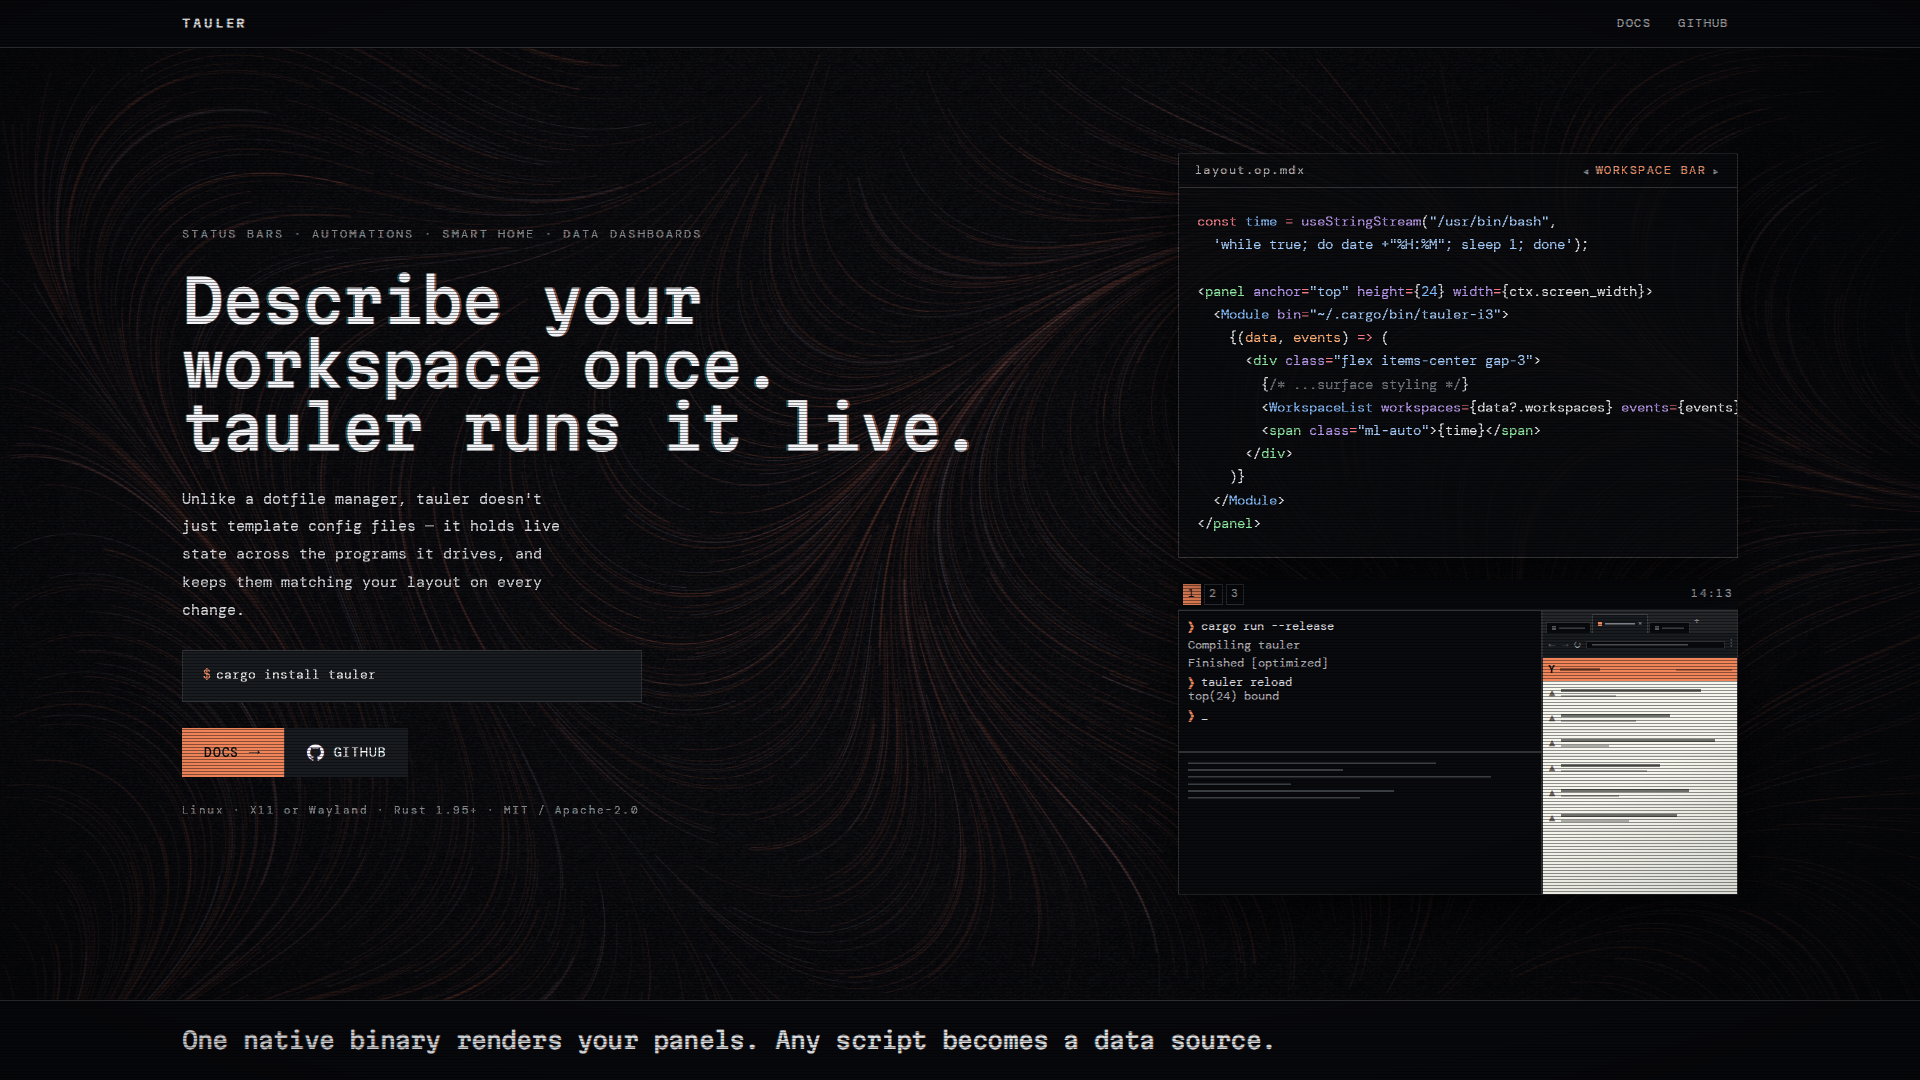
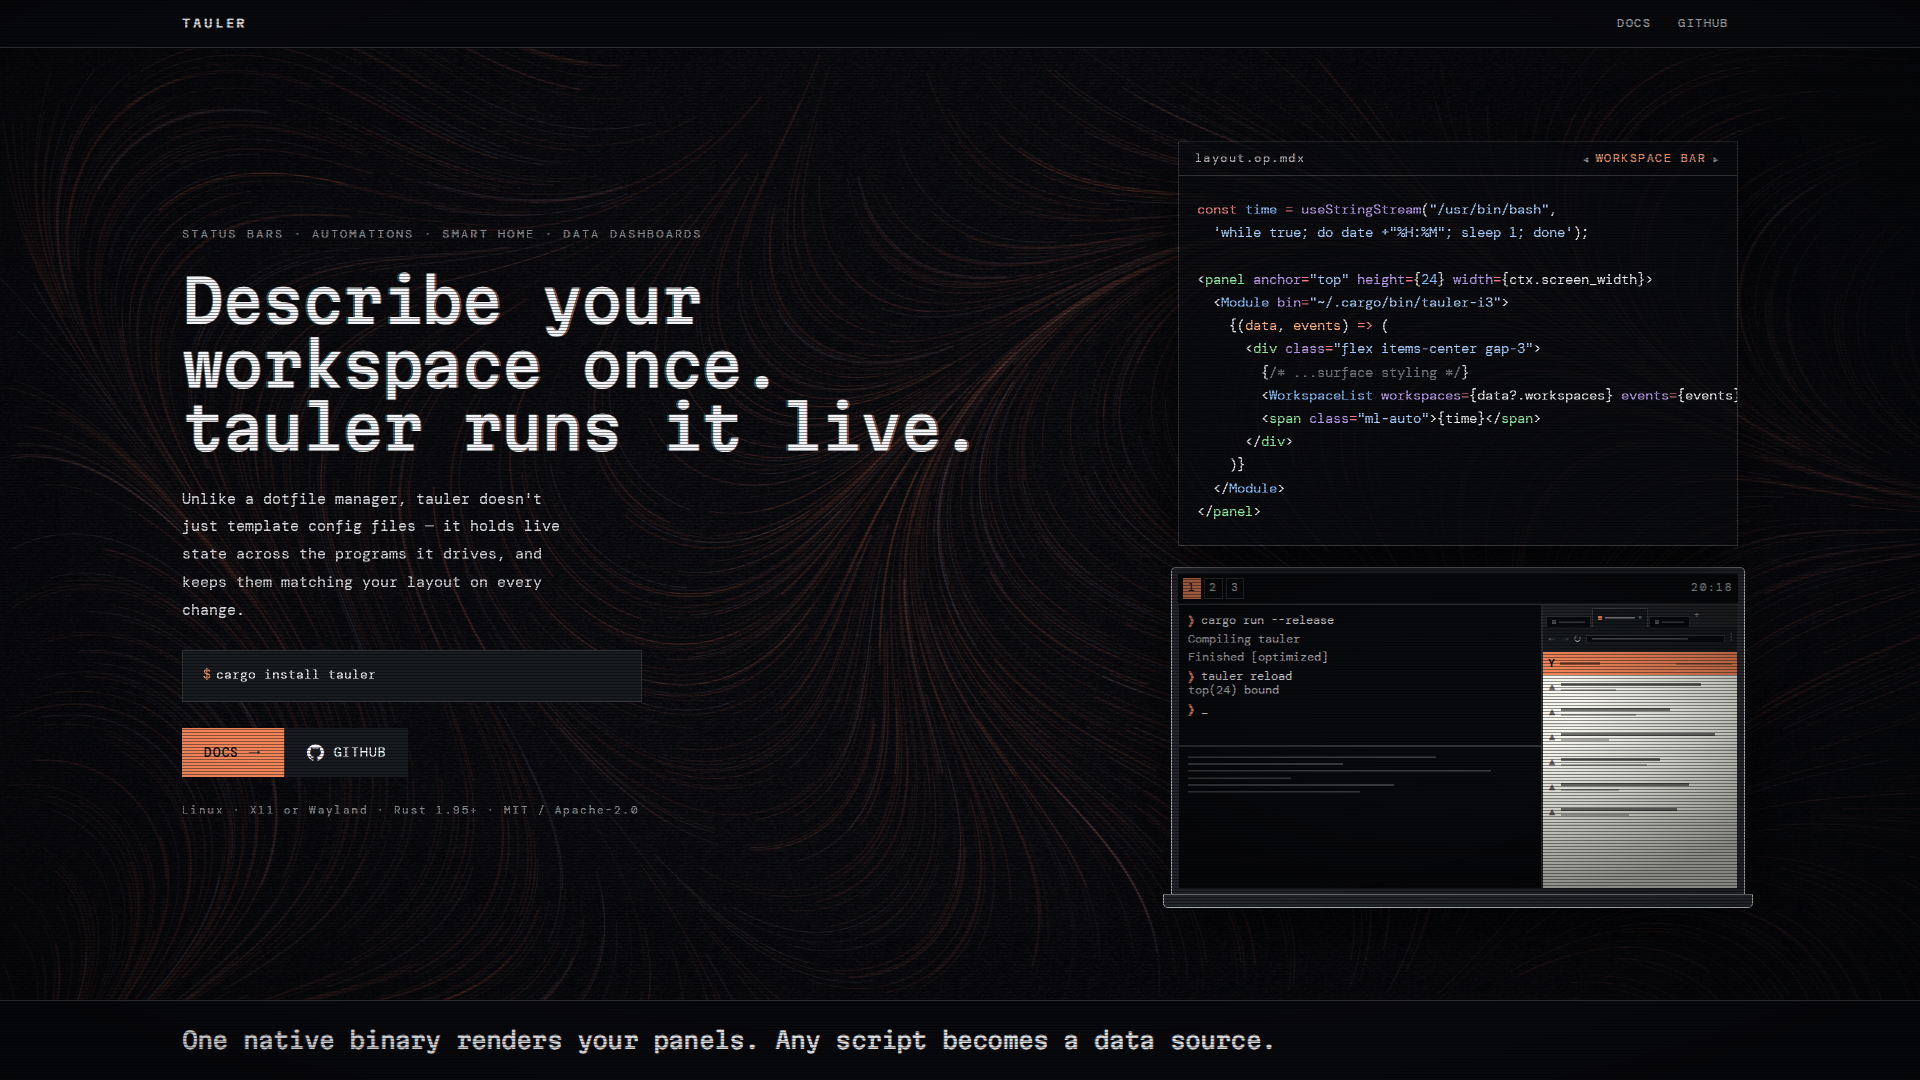
feat: add fake laptop to landing screen (#475)

diff --git a/docs/src/styles/global.css b/docs/src/styles/global.css
@@ -69,6 +69,10 @@
   /* Panel lift — a surface sitting over the wallpaper, not a card. */
   --shadow-panel: 0 20px 55px oklch(0.03 0.01 265 / 0.75);
 
+  /* The one radius on the site — see ADR 0030's amendment. Only reachable
+     via [data-physical-object]; every other surface stays radius-0. */
+  --radius-device: 4px;
+
   /* Accent-1 (flow field). The other four workspace accents return with
      the full scroll-story page; accent-2 arrived early for the docs'
      second sidebar group (ADR-pending: see the docs revamp handoff §6).
@@ -136,6 +140,22 @@
 @layer design {
   * {
     border-radius: 0;
+  }
+
+  /* Named, narrow exception — see ADR 0030's amendment. An attribute
+     selector (0,0,1,0) beats the universal selector above (0,0,0,0) by
+     ordinary specificity within this same layer, no !important needed.
+     Reserved for hardware mockups standing in for a real object, not UI
+     chrome — reach for this only when that's genuinely what the element is.
+     "lid" and "base" round asymmetrically, the way a real laptop does: the
+     lid rounds only its top corners (away from the hinge), the base rounds
+     only its bottom corners (the front edge resting on the desk) — the
+     hinge line where the two meet stays flush (radius 0) on both sides. */
+  [data-physical-object='lid'] {
+    border-radius: var(--radius-device) var(--radius-device) 0 0;
+  }
+  [data-physical-object='base'] {
+    border-radius: 0 0 var(--radius-device) var(--radius-device);
   }
 
   /* Landing-page ground; Starlight's own layers repaint it for docs pages. */

diff --git a/docs/adr/0030-site-styling-is-layered-and-machine-checked.md b/docs/adr/0030-site-styling-is-layered-and-machine-checked.md
@@ -20,3 +20,47 @@ Prettier (with the Astro and Tailwind plugins) for formatting: it is the only
 formatter that handles `.astro` templates maturely, and its class sorter
 reads the real `@theme`. Revisit Biome when it formats Astro templates
 stably and `useSortedClasses` understands theme-defined utilities.
+
+## Amendment: `[data-physical-object]` may round its own corners
+
+Radius-0 is still the default for everything — panels, buttons, code
+blocks, all UI chrome. The one exception is an element carrying
+`data-physical-object`: a hardware mockup (currently just
+`DeviceMockup.astro`'s laptop frame) standing in for a real object on a
+desk, not another piece of interface. Every other panel on the landing page
+(`CodePanel`, `ScreenMock`) is also sharp-cornered, which is exactly the
+problem — a sharp-cornered device mockup reads as *more panel chrome*, not
+as a distinct physical thing sitting in front of the screen it wraps.
+Rounding is the signal that tells them apart; it's semantic, not decorative.
+
+The mechanism is two rules in the same `design` layer, declared after
+`* { border-radius: 0; }`, keyed by an explicit `data-physical-object` value
+rather than its bare presence — a real laptop doesn't round symmetrically,
+so neither does this: the lid rounds only its top corners (away from the
+hinge), the base rounds only its bottom corners (the front edge resting on
+the desk), and the hinge line where the two meet stays flush on both sides:
+
+```css
+[data-physical-object='lid'] {
+  border-radius: var(--radius-device) var(--radius-device) 0 0;
+}
+[data-physical-object='base'] {
+  border-radius: 0 0 var(--radius-device) var(--radius-device);
+}
+```
+
+Cascade layers only order-break across layers; two rules in the same layer
+still resolve by ordinary specificity, and an attribute selector
+(0,0,1,0) beats the universal selector (0,0,0,0) regardless of which comes
+second. No `!important` needed, so nothing here weakens the guarantee that
+Starlight's own CSS still loses everywhere it isn't explicitly named.
+
+`data-physical-object` is a plain attribute, not a Tailwind class, for the
+same reason `[data-reveal]` already is: it sidesteps
+`check-class-layers.ts`'s `rounded-*` ban on purpose, because it isn't a
+utility class in the first place — it's this repo's existing convention for
+one-off, non-utility CSS. That's also what keeps this narrow: getting
+radius requires an explicit, named opt-in on a specific element, not a
+class anyone can reach for. Reaching for `data-physical-object` on
+anything that isn't standing in for a real object is the wrong tool, the
+same way reaching for `rounded-*` would be.
